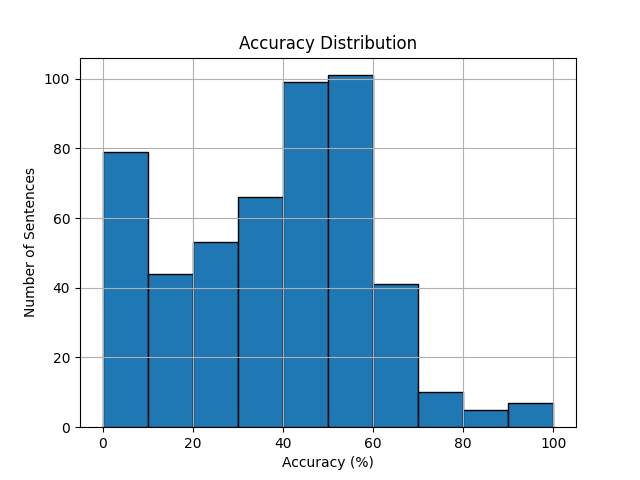
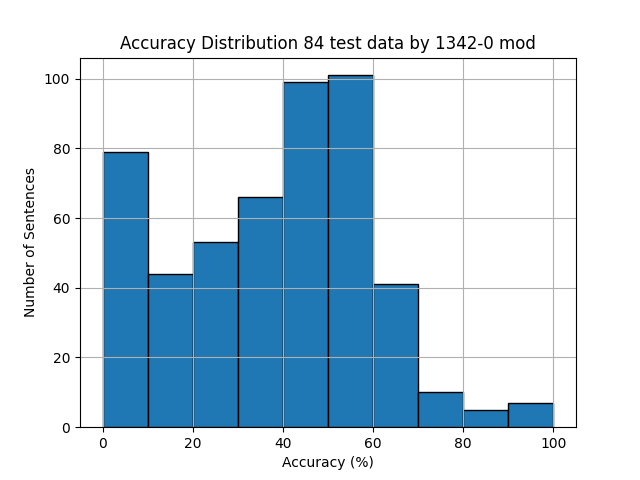
ヒストグラムのタイトル変更

Changed region(s): [[0.1875, 0.0625, 0.8438, 0.125]]

diff --git a/calculate_accuracy_84.py b/calculate_accuracy_84.py
@@ -16,8 +16,8 @@ def calculate_accuracy(original, estimated):
 
 # File paths
 original_path = 'test_data_only_final_chapter_origin_for_comparison_84.txt'
-estimated_path = 'estimated_sentence_from_test_data_84_by_84mod.txt'
-output_csv_path = '84_accuracy_by_84mod.csv'
+estimated_path = 'estimated_sentence_from_test_data_84_by_1342-0mod.txt'
+output_csv_path = '84_accuracy_by_1342-0mod.csv'
 
 # Process files
 original_data = read_and_process_file(original_path)
@@ -43,12 +43,12 @@ with open(output_csv_path, 'w', newline='', encoding='utf-8') as csvfile:
 # Plotting the histogram of accuracies
 accuracy_values = [acc[2] for acc in accuracies]
 plt.hist(accuracy_values, bins=10, edgecolor='black')
-plt.title('Accuracy Distribution')
+plt.title('Accuracy Distribution 84 test data by 1342-0 mod')
 plt.xlabel('Accuracy (%)')
 plt.ylabel('Number of Sentences')
 plt.grid(True)
-plt.savefig('accuracy_histogram_84_by_84mod.png')
+plt.savefig('accuracy_histogram_84_by_1342-0mod.png')
 plt.show()
 
 print(f'Accuracy results have been saved to {output_csv_path}')
-print('Histogram of accuracy distribution has been saved as "accuracy_histogram_84_by_84mod.png".')
+print('Histogram of accuracy distribution has been saved as "accuracy_histogram_84_by_1342-0mod.png".')
